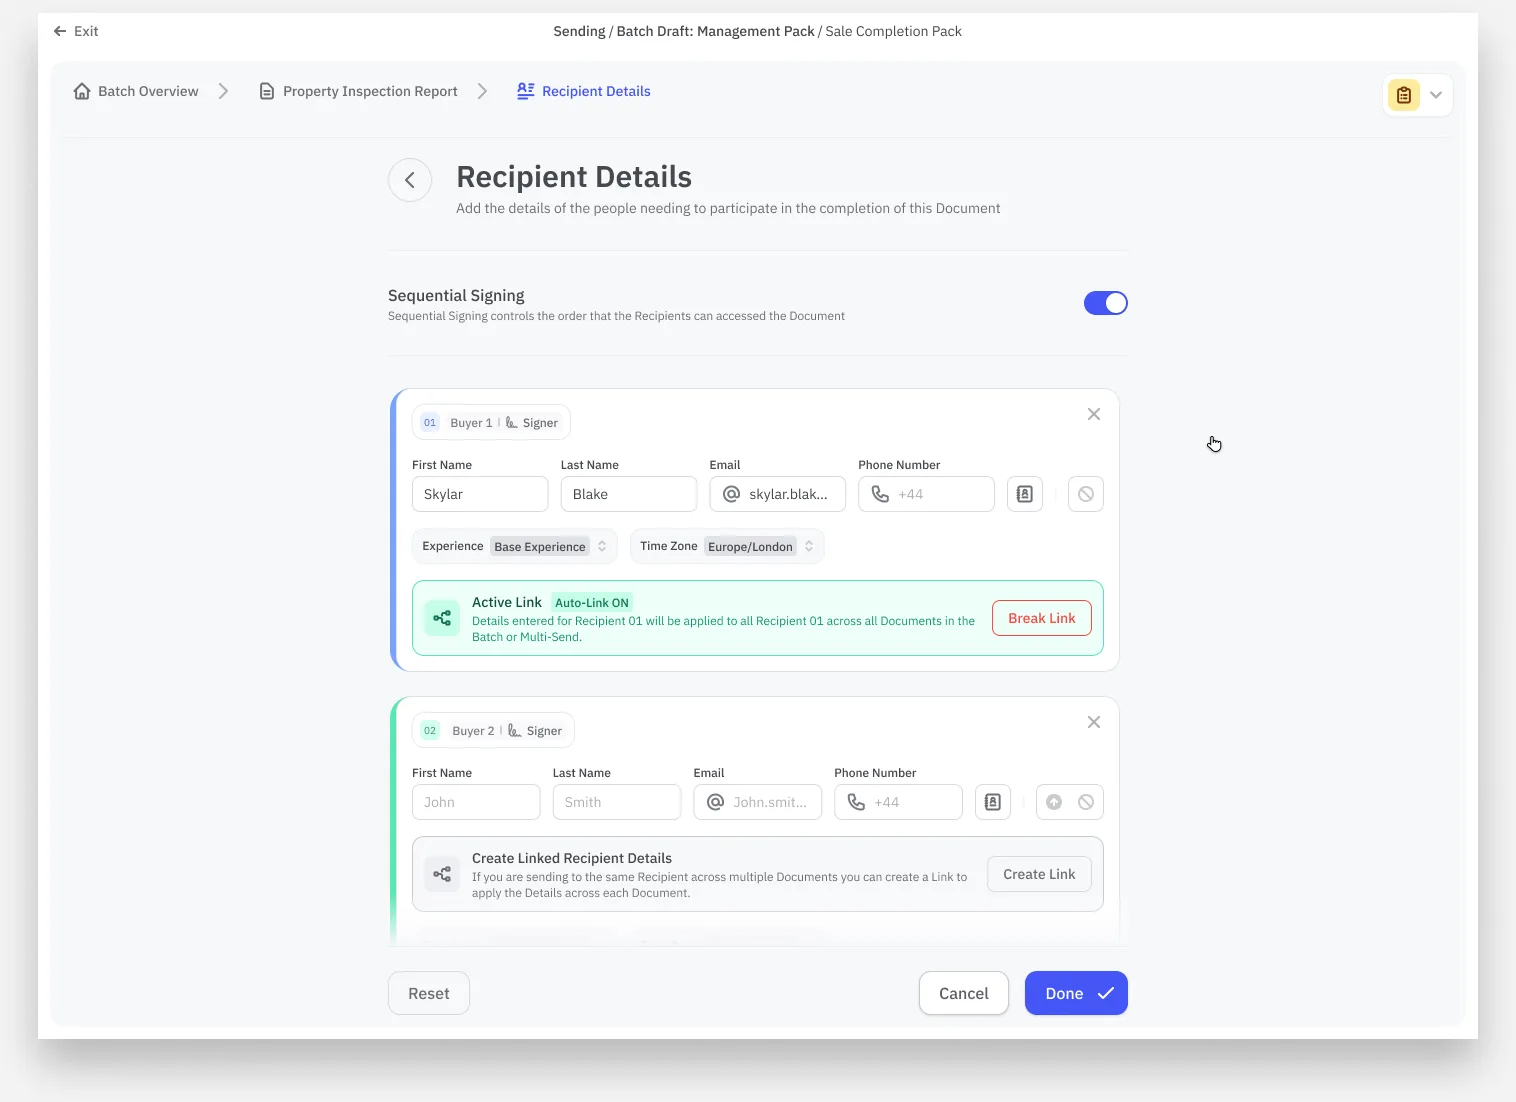
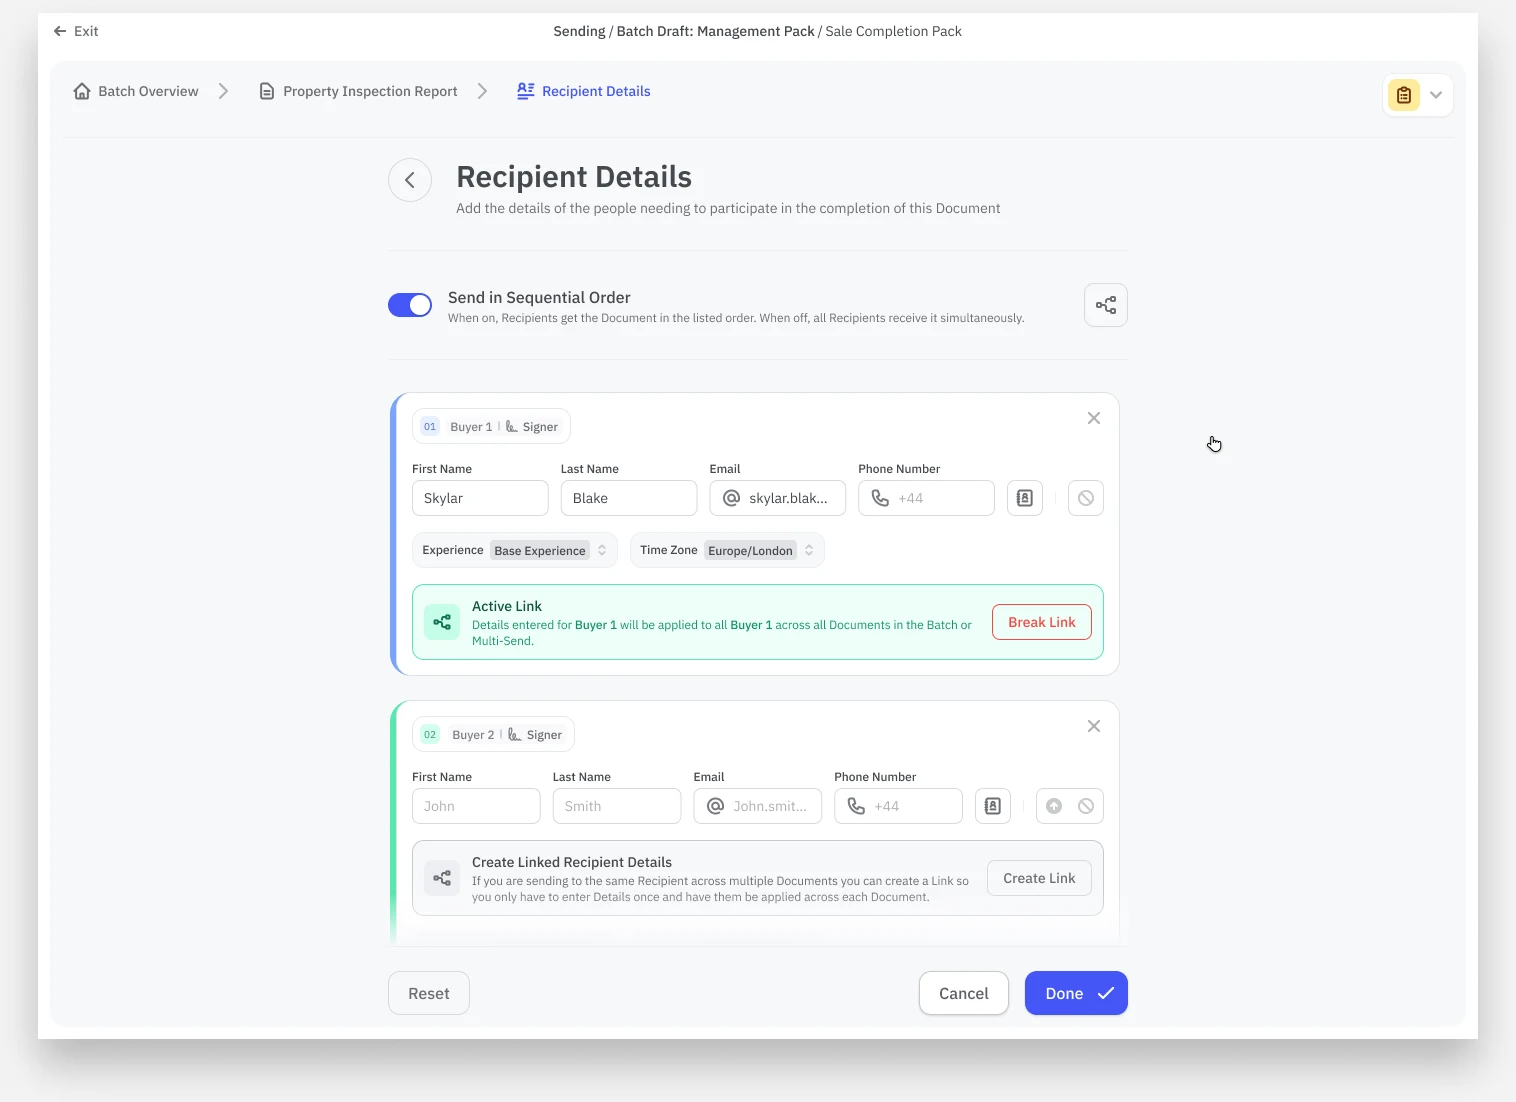
Drafts: linking copy and screen match the shipped design, without auto-link or link all
Claude-Session: https://claude.ai/code/session_018JD3654TLLPTTLkXJmTyfQ

diff --git a/src/projects.ts b/src/projects.ts
@@ -1371,7 +1371,7 @@ export const projects: Project[] = [
             items: [
               { icon: "QueueList", title: "Single, multi-document and batch", body: "Documents can be reordered, and a batch has its own name and Enforce Ordering." },
               { icon: "Squares2X2", title: "Seven sections per document", body: "Name, file, template, field content, recipient details, recipient options and document options, each prepared on its own." },
-              { icon: "UserGroup", title: "Linked fields and recipients", body: "Fill a field or a recipient once across every document, linked by type, label, order or description." },
+              { icon: "UserGroup", title: "Linked fields and recipients", body: "Fill a field or a recipient once across every document. Fields link by label, recipients by order or label." },
               { icon: "ListBullet", title: "Required actions", body: "One list of everything left, by document, section and issue." },
               { icon: "DocumentDuplicate", title: "Save, Save a copy, Reset", body: "Save once something has changed, keep a copy as a new base draft, or reset to the last save or the draft base." },
               { icon: "Users", title: "Shared with the team", body: "Drafts live in the team's library under a name that says what they're for." },
@@ -1563,7 +1563,7 @@ export const projects: Project[] = [
               },
               {
                 name: "Sender fields",
-                cells: ["Empty", "Pre-fill values, link fields by type or label", "Fill in what's left, or break a link", "Fields mismatch: force update, then prepare again", "A required sender field is empty"],
+                cells: ["Empty", "Pre-fill values, link fields that share a label", "Fill in what's left, or break a link", "Fields mismatch: force update, then prepare again", "A required sender field is empty"],
               },
               {
                 name: "Participant fields",
@@ -1571,7 +1571,7 @@ export const projects: Project[] = [
               },
               {
                 name: "Recipient details",
-                cells: ["Roles from the template", "Fill in people, link them by order, label or description", "Add people, link or break links", "Participant mismatch: force update and re-enter details", "A recipient with no details, unless skipped or left for the one before to decide"],
+                cells: ["Roles from the template", "Fill in people, link them by order or label", "Add people, link or break links", "Participant mismatch: force update and re-enter details", "A recipient with no details, unless skipped or left for the one before to decide"],
               },
               {
                 name: "Recipient settings",
@@ -1601,12 +1601,12 @@ export const projects: Project[] = [
             items: [
               {
                 title: "Linked fields",
-                body: "A batch might have a completion date on every document. Fields can be linked by type, or by a label set in the template, so a sender fills it in once. Each field type has its own states (a checkbox can be empty, ticked or crossed; a dropdown empty or set), and any one field can break from the link.",
+                body: "A batch might have a completion date on every document. Fields that share a label set in the template can be linked, from the field itself or from one panel that lists every match, so a sender fills it in once. When the documents already hold different values, the sender picks the one the link keeps. Each field type has its own states (a checkbox can be empty, ticked or crossed; a dropdown empty or set), and any link can be broken.",
                 icon: "PuzzlePiece",
               },
               {
                 title: "Linked recipients",
-                body: "When the landlord or approver is the same on every document, their details are linked by the order they appear in the template, their label, or their description. Links are made from one place or straight from a recipient's card, and can be broken one at a time.",
+                body: "When the landlord or approver is the same on every document, their details can be linked, matched by the order they appear in each template or by their label. Links are made straight from a recipient's card or from one panel, and breaking one asks whether it goes everywhere or just in this document.",
                 icon: "UserGroup",
               },
               {
@@ -1626,7 +1626,7 @@ export const projects: Project[] = [
               },
               {
                 title: "Roles and order in the template",
-                body: "A signer must have a signature field and an approver doesn't, so changing someone's role can add a requirement. Reordering participants after recipients are linked means deciding whether links follow the order, the label or the description.",
+                body: "A signer must have a signature field and an approver doesn't, so changing someone's role can add a requirement. Reordering participants after recipients are linked means deciding whether links follow the order or the label. Switching between them breaks every link, so the switch asks first.",
                 icon: "UserPlus",
               },
               {
